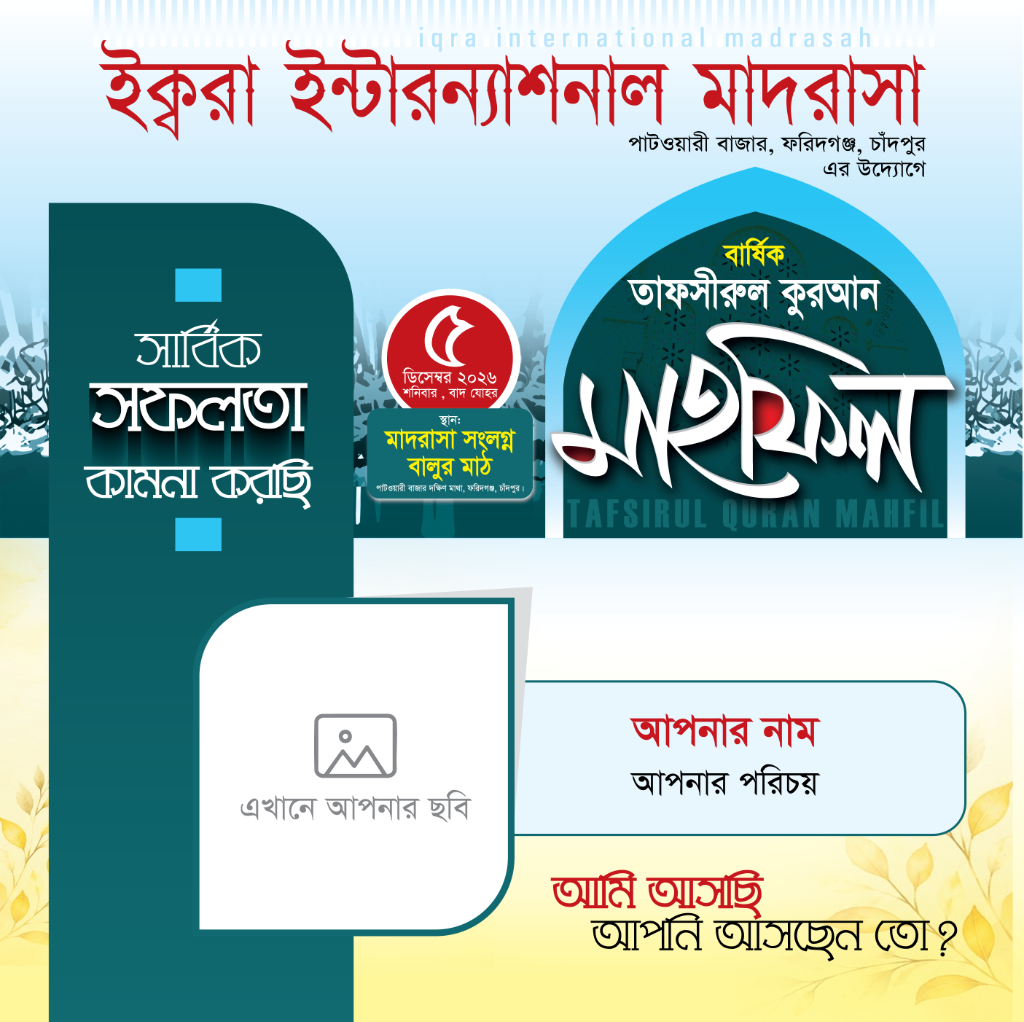
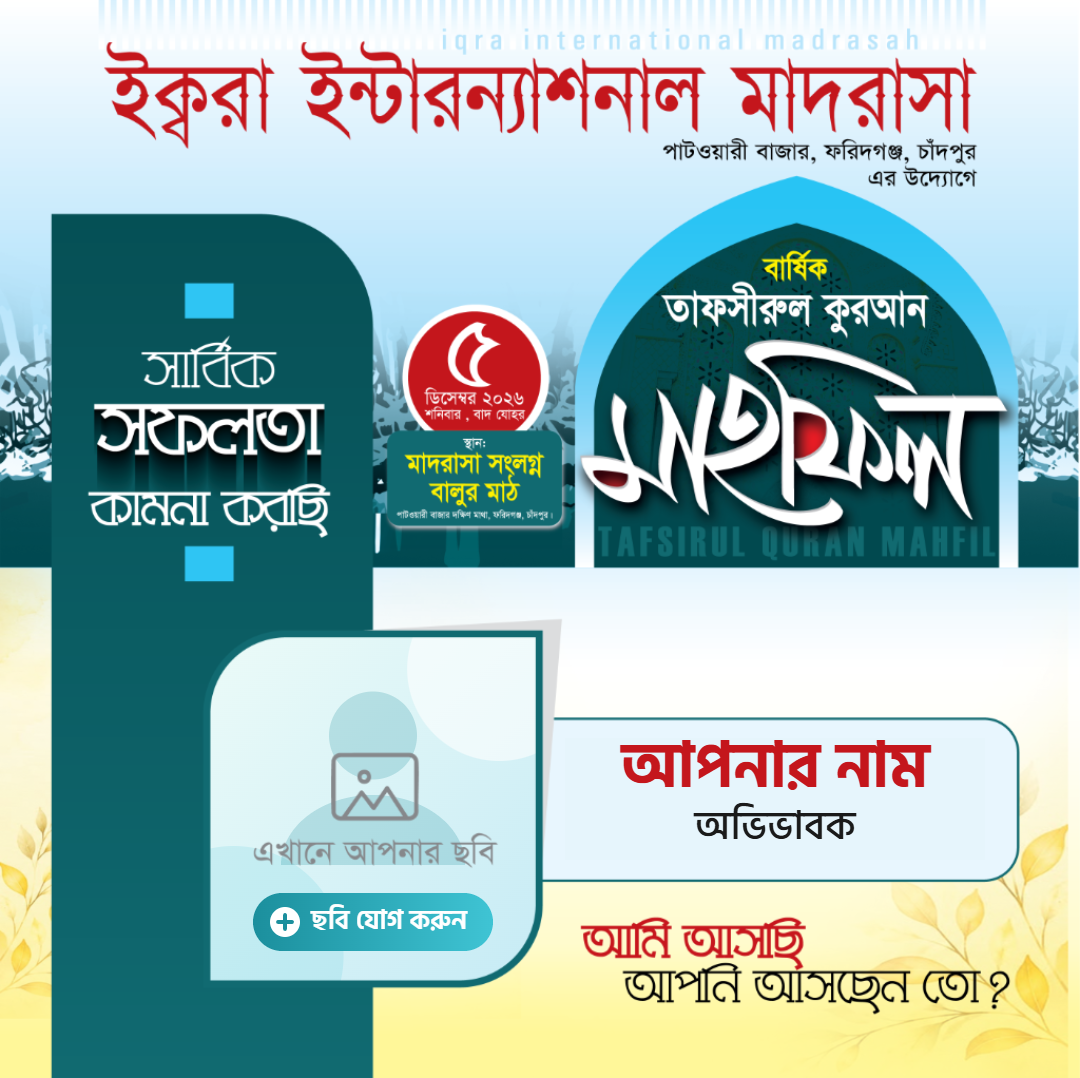
feat: update frame assets, enhance mobile app styles, and add Not Found page

diff --git a/src/components/studio/frameDraw.ts b/src/components/studio/frameDraw.ts
@@ -4,10 +4,10 @@ export const CANVAS_WIDTH = 1080;
 export const CANVAS_HEIGHT = 1078;
 
 export const PHOTO_BOUNDS = {
-  x: 207,
-  y: 634,
-  w: 332,
-  h: 350,
+  x: 210,
+  y: 637,
+  w: 326,
+  h: 343,
 };
 
 export const TEXT_BOX = {
@@ -150,11 +150,26 @@ export function renderFrame(
 
   ctx.clearRect(0, 0, CANVAS_WIDTH, CANVAS_HEIGHT);
 
-  // 1. Draw User Photo or Placeholder
+  // 1. Draw the frame template (it already contains the photo-slot placeholder)
+  const frameReady = !!(frameImg && frameImg.complete && frameImg.naturalWidth);
+  if (frameReady) {
+    ctx.drawImage(frameImg, 0, 0, CANVAS_WIDTH, CANVAS_HEIGHT);
+  }
+
+  // 2. Draw the user photo ON TOP of the frame, clipped to the photo card
+  //    (rounded top-left and bottom-right corners, like the frame artwork).
   if (state.userImage && state.userImage.complete && state.userImage.naturalWidth) {
+    const r = 64;
     ctx.save();
     ctx.beginPath();
-    ctx.rect(R.x - 2, R.y - 2, R.w + 4, R.h + 4);
+    ctx.moveTo(R.x + r, R.y);
+    ctx.lineTo(R.x + R.w, R.y);
+    ctx.lineTo(R.x + R.w, R.y + R.h - r);
+    ctx.arcTo(R.x + R.w, R.y + R.h, R.x + R.w - r, R.y + R.h, r);
+    ctx.lineTo(R.x, R.y + R.h);
+    ctx.lineTo(R.x, R.y + r);
+    ctx.arcTo(R.x, R.y, R.x + r, R.y, r);
+    ctx.closePath();
     ctx.clip();
 
     const scale = Math.max(R.w / state.userImage.width, R.h / state.userImage.height) * state.zoom;
@@ -174,21 +189,15 @@ export function renderFrame(
       h
     );
     ctx.restore();
-  } else {
+  } else if (!frameReady) {
     drawPlaceholder(ctx, R, isTeal, state.language ?? 'bn');
   }
-
-  // 2. Draw Frame Overlay
-  if (frameImg && frameImg.complete && frameImg.naturalWidth) {
-    ctx.drawImage(frameImg, 0, 0, CANVAS_WIDTH, CANVAS_HEIGHT);
-  }
-
   // 3. Draw Name and Designation Box
   const B = TEXT_BOX;
   const cx = B.cx;
 
   // Background patch matching frame's card color
-  ctx.fillStyle = isTeal ? '#e6f5fc' : '#f0f7ff';
+  ctx.fillStyle = isTeal ? '#e6f5fc' : '#fcf2e6';
   ctx.fillRect(B.x, B.y, B.w, B.h);
 
   ctx.textAlign = 'center';

diff --git a/src/components/studio/MobileAppStudio.tsx b/src/components/studio/MobileAppStudio.tsx
@@ -689,29 +689,9 @@ export function MobileAppStudio() {
           </div>
           <div className="sub-row">
             <span className="sub-date">{text("৫ ডিসেম্বর · বাদ যোহর")}</span>
-            <span className="cd-box" id="sub">
-              <svg className="ic cd-ic">
-                <use href="#i-clock" />
-              </svg>
-              <span id="cd-txt">
-                <b>{countdownText.split(' ')[0]}</b> {countdownText.split(' ').slice(1).join(' ')}
-              </span>
-            </span>
           </div>
         </div>
         <div className="nv">
-          <button
-            type="button"
-            className="ib"
-            id="np"
-            aria-label={text("পোস্টার")}
-            title={text("মাহফিলের পোস্টার")}
-            onClick={() => setActiveSheet('poster')}
-          >
-            <svg className="ic">
-              <use href="#i-img" />
-            </svg>
-          </button>
           <button
             type="button"
             className="ib ib-call"
@@ -776,14 +756,18 @@ export function MobileAppStudio() {
             id="tab0"
             onClick={() => handleSelectFrame(0)}
           >
-            <span className="tab-dot dot-1" />{text("🔷 ফ্রেম ১ (রয়েল ব্লু)")}</button>
+            <span className="tab-dot dot-1" />
+            <span>{text("ফ্রেম ১ (রয়েল ব্লু)")}</span>
+          </button>
           <button
             type="button"
             className={`ftab tab-2 ${frameIndex === 1 ? 'on' : ''}`}
             id="tab1"
             onClick={() => handleSelectFrame(1)}
           >
-            <span className="tab-dot dot-2" />{text("💠 ফ্রেম ২ (পোস্টার থিম)")}</button>
+            <span className="tab-dot dot-2" />
+            <span>{text("ফ্রেম ২ (পোস্টার থিম)")}</span>
+          </button>
         </div>
 
         {/* Zoom Slider Row */}

diff --git a/src/components/studio/mobileApp.css b/src/components/studio/mobileApp.css
@@ -309,27 +309,46 @@
 
 /* Frame Selector Tabs */
 .mobile-frame-app .frame-tabs {
-  display: flex;
+  display: grid;
+  grid-template-columns: 1fr 1fr;
+  width: 100%;
+  max-width: 380px;
+  margin: 0 auto;
+  box-sizing: border-box;
   background: #ffffff;
   padding: 4px;
   border-radius: 99px;
   border: 1.5px solid var(--ln);
   box-shadow: 0 4px 12px -3px rgba(12,35,64, 0.08);
-  gap: 4px;
+  gap: 6px;
   z-index: 4;
 }
 
 .mobile-frame-app .ftab {
   border: 0;
   background: transparent;
-  padding: 6px 16px;
+  padding: 7px 10px;
   border-radius: 99px;
-  font: 700 13.5px var(--ff);
+  font: 700 13px var(--ff);
   cursor: pointer;
-  display: inline-flex;
+  display: flex;
   align-items: center;
+  justify-content: center;
+  text-align: center;
   gap: 6px;
+  white-space: nowrap;
+  width: 100%;
+  min-width: 0;
+  box-sizing: border-box;
   transition: all 0.18s;
+}
+
+@media (max-width: 360px) {
+  .mobile-frame-app .ftab {
+    font-size: 11.5px;
+    padding: 6px 4px;
+    gap: 4px;
+  }
 }
 
 .mobile-frame-app .ftab:active {
@@ -347,7 +366,7 @@
   color: var(--brand-primary);
 }
 .mobile-frame-app .ftab.tab-1 .tab-dot {
-  background: var(--brand-primary);
+  background: #116a71;
 }
 .mobile-frame-app .ftab.tab-1.on {
   background: var(--brand-primary);
@@ -355,14 +374,14 @@
   box-shadow: 0 4px 12px -2px rgba(2, 108, 182, 0.45);
 }
 .mobile-frame-app .ftab.tab-1.on .tab-dot {
-  background: #38bdf8;
+  background: #5fd6dc;
 }
 
 .mobile-frame-app .ftab.tab-2 {
   color: var(--brand-blue-ink);
 }
 .mobile-frame-app .ftab.tab-2 .tab-dot {
-  background: var(--brand-blue-ink);
+  background: #b8863b;
 }
 .mobile-frame-app .ftab.tab-2.on {
   background: var(--brand-blue-ink);
@@ -370,7 +389,7 @@
   box-shadow: 0 4px 12px -2px rgba(2, 132, 199, 0.45);
 }
 .mobile-frame-app .ftab.tab-2.on .tab-dot {
-  background: #7dd3fc;
+  background: #f2c777;
 }
 
 /* Zoom Slider Row */

diff --git a/src/app/globals.css b/src/app/globals.css
@@ -286,13 +286,41 @@
 
 .hero-arch {
   position: absolute;
-  inset: 1rem 0 0;
-  margin-inline: auto;
-  width: min(92%, 62rem);
-  height: min(90%, 46rem);
+  top: 0.75rem;
+  left: 50%;
+  transform: translateX(-50%);
+  width: min(calc(100% + 1.5rem), 30rem);
+  height: clamp(330px, 48vh, 390px);
   color: var(--brand-blue-ink);
-  opacity: 0.065;
+  opacity: 0.075;
   pointer-events: none;
+  -webkit-mask-image: linear-gradient(to bottom, black 72%, transparent 100%);
+  mask-image: linear-gradient(to bottom, black 72%, transparent 100%);
+}
+
+@media (min-width: 640px) {
+  .hero-arch {
+    top: 1rem;
+    width: min(94%, 48rem);
+    height: clamp(400px, 54vh, 480px);
+    -webkit-mask-image: linear-gradient(to bottom, black 80%, transparent 100%);
+    mask-image: linear-gradient(to bottom, black 80%, transparent 100%);
+  }
+}
+
+@media (min-width: 768px) {
+  .hero-arch {
+    inset: 1rem 0 0;
+    margin-inline: auto;
+    left: 0;
+    right: 0;
+    transform: none;
+    width: min(92%, 62rem);
+    height: min(90%, 46rem);
+    opacity: 0.065;
+    -webkit-mask-image: none;
+    mask-image: none;
+  }
 }
 
 /* Custom scrollbar */

diff --git a/src/content/studio.ts b/src/content/studio.ts
@@ -30,6 +30,8 @@ const ENGLISH: Record<string, string> = {
   "টেনে সরান · দুই আঙুলে জুম করুন": "Drag to move · Pinch to zoom",
   "🔷 ফ্রেম ১ (রয়েল ব্লু)": "🔷 Frame 1 (Royal Blue)",
   "💠 ফ্রেম ২ (পোস্টার থিম)": "💠 Frame 2 (Poster theme)",
+  "ফ্রেম ১ (রয়েল ব্লু)": "Frame 1 (Royal Blue)",
+  "ফ্রেম ২ (পোস্টার থিম)": "Frame 2 (Poster Theme)",
   "স্বাভাবিক আকারে ফিরতে ট্যাপ করুন": "Tap to reset zoom",
   "জুম:": "Zoom",
   "ছবি বড়-ছোট": "Photo zoom",

diff --git a/src/app/not-found.tsx b/src/app/not-found.tsx
@@ -1,0 +1,16 @@
+import Link from 'next/link';
+
+export default function NotFound() {
+  return (
+    <div className="min-h-screen flex flex-col items-center justify-center p-6 text-center bg-slate-50">
+      <h2 className="text-3xl font-extrabold text-slate-900 mb-2">পৃষ্ঠাটি পাওয়া যায়নি</h2>
+      <p className="text-slate-600 mb-6">অনুগ্রহ করে প্রধান পাতায় ফিরে যান।</p>
+      <Link
+        href="/"
+        className="px-6 py-2.5 rounded-full bg-sky-700 text-white font-bold text-sm shadow hover:bg-sky-800 transition"
+      >
+        হোমে ফিরুন
+      </Link>
+    </div>
+  );
+}

diff --git a/src/content/site.ts b/src/content/site.ts
@@ -8,8 +8,8 @@ export const SITE = {
     en: 'Iqra International Madrasah',
   },
   shortName: {
-    bn: 'ইক্বরা মাদরাসা',
-    en: 'Iqra Madrasah',
+    bn: 'ইক্বরা ইন্টা. মাদরাসা',
+    en: 'Iqra Int. Madrasah',
   },
   tagline: {
     bn: 'শারয়ী ও জেনারেল শিক্ষার সমন্বয়ে যুগোপযোগী শিক্ষা প্রদান',
